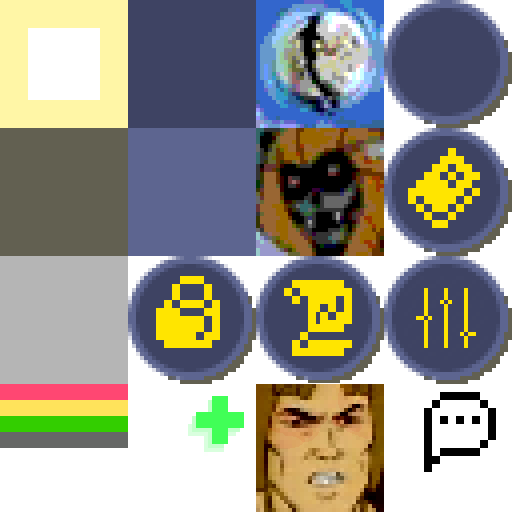
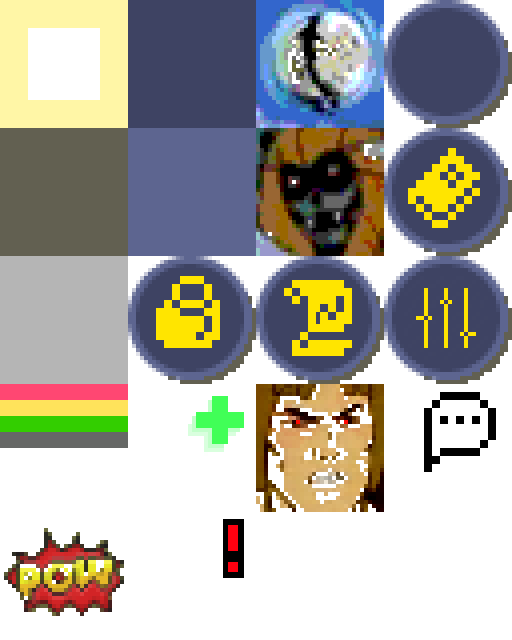
show actor hostility

diff --git a/src/main/kotlin/actors/NPC.kt b/src/main/kotlin/actors/NPC.kt
@@ -3,8 +3,12 @@ package actors
 import actors.actions.Action
 import actors.actions.Move
 import actors.actions.Wait
+import actors.animations.Hop
 import kotlinx.serialization.Serializable
 import kotlinx.serialization.Transient
+import render.sparks.Speak
+import render.tilesets.Glyph
+import ui.panels.Console
 import util.*
 
 @Serializable
@@ -17,8 +21,14 @@ sealed class NPC : Actor() {
 
     var awareness = Awareness.HIBERNATED
     var lastPlayerSeenTime = 0.0
+    var hostile = false
 
     open fun pickAction(): Action = Wait(1f)
+
+    open fun converseLines(): List<String> = listOf()
+
+    open fun isHostile(): Boolean = hostile
+    open fun becomeHostileMsg(): List<String> = listOf("%DN bellows with rage!", "%DN turns angrily toward you!")
 
     final override fun canAct() = juice > 0f
     final override fun isActing() = awareness != Awareness.HIBERNATED
@@ -60,6 +70,29 @@ sealed class NPC : Actor() {
             } else if (awareness == Awareness.AWARE && App.time - lastPlayerSeenTime > forgetPlayerTime) {
                 forgetPlayer()
             }
+        }
+    }
+
+    override fun onConverse(actor: Actor): Boolean {
+        val converseLines = converseLines()
+        if (converseLines.isNotEmpty()) {
+            Console.announce(level, xy.x, xy.y, Console.Reach.AUDIBLE, this.dnamec() + " says, \"" + converseLines.random() + "\"")
+            level?.addSpark(Speak().at(xy.x, xy.y))
+            return true
+        }
+        return false
+    }
+
+    override fun statusGlyph(): Glyph? {
+        if (isHostile()) return Glyph.HOSTILE_ICON
+        return null
+    }
+
+    override fun receiveAttack(attacker: Actor) {
+        if (attacker is Player && !hostile) {
+            hostile = true
+            val m = becomeHostileMsg().random()
+            Console.sayAct("", m, this, attacker, null, Console.Reach.AUDIBLE)
         }
     }
 }

diff --git a/src/main/kotlin/world/Chunk.kt b/src/main/kotlin/world/Chunk.kt
@@ -14,6 +14,7 @@ import util.*
 import world.cartos.LevelCarto
 import world.cartos.WorldCarto
 import world.terrains.Terrain
+import java.lang.Float.max
 import java.lang.Float.min
 import kotlin.random.Random
 
@@ -350,9 +351,9 @@ class Chunk(
         lightCache[x][y].b = ambient.b
         lights[x][y].forEach { (light, color) ->
             val flicker = light.flicker()
-            lightCache[x][y].r = min(1f, (lightCache[x][y].r + color.r) * flicker)
-            lightCache[x][y].g = min(1f, (lightCache[x][y].g + color.g) * flicker)
-            lightCache[x][y].b = min(1f, (lightCache[x][y].b + color.b) * flicker)
+            lightCache[x][y].r = min(1f, (lightCache[x][y].r + max(0f, (color.r * flicker))))
+            lightCache[x][y].g = min(1f, (lightCache[x][y].g + max(0f, (color.g * flicker))))
+            lightCache[x][y].b = min(1f, (lightCache[x][y].b + max(0f, (color.b * flicker))))
         }
         lightCacheDirty[x][y] = false
     }

diff --git a/src/main/kotlin/world/cartos/WorldCarto.kt b/src/main/kotlin/world/cartos/WorldCarto.kt
@@ -1,5 +1,6 @@
 package world.cartos
 
+import actors.Herder
 import actors.Ox
 import kotlinx.serialization.encodeToString
 import kotlinx.serialization.json.Json
@@ -48,8 +49,12 @@ class WorldCarto(
         for (x in 0 until width) {
             for (y in 0 until height) {
                 if (isWalkableAt(x + this.x0, y + this.y0)) {
-                    if (Dice.chance(0.005f)) {
-                        Ox().moveTo(level, x + this.x0, y + this.y0)
+                    if (Dice.chance(0.006f)) {
+                        if (Dice.chance(0.85f)) {
+                            Ox().moveTo(level, x + this.x0, y + this.y0)
+                        } else {
+                            Herder().moveTo(level, x + this.x0, y + this.y0)
+                        }
                     }
                     val n = Perlin.noise(x * 0.04, y * 0.04, 0.01) +
                             Perlin.noise(x * 0.7, y * 0.4, 1.5) * 0.5

diff --git a/src/main/kotlin/ui/modals/InventoryModal.kt b/src/main/kotlin/ui/modals/InventoryModal.kt
@@ -1,7 +1,7 @@
 package ui.modals
 
 import actors.actions.Drop
-import actors.actions.UseThing
+import actors.actions.Use
 import com.badlogic.gdx.Input
 import render.Screen
 import things.Thing
@@ -101,7 +101,7 @@ class InventoryModal(
             thing.uses().forEach {
                 if (it.canDo(App.player)) {
                     addOption(it.command) {
-                        App.player.queue(UseThing(thing, it.duration, it.toDo))
+                        App.player.queue(Use(thing, it.duration, it.toDo))
                     }
                 }
             }
@@ -113,6 +113,8 @@ class InventoryModal(
     override fun keyDown(keycode: Int) {
         when (keycode) {
             Input.Keys.TAB -> dismiss()
+            Input.Keys.NUMPAD_4 -> dismiss()
+            Input.Keys.NUMPAD_6 -> doSelect()
             else -> super.keyDown(keycode)
         }
     }

diff --git a/src/main/kotlin/actors/Herder.kt b/src/main/kotlin/actors/Herder.kt
@@ -1,0 +1,28 @@
+package actors
+
+import actors.actions.Action
+import kotlinx.serialization.Serializable
+import render.tilesets.Glyph
+import util.Dice
+
+@Serializable
+class Herder : NPC() {
+
+    override fun glyph() = Glyph.HERDER
+    override fun name() = "herdsman"
+    override fun description() = "A peasant farm worker.  He looks oppressed, possibly by wizards."
+    override fun converseLines() = listOf(
+        "Shoveling ox poo all day for a wizard.  It's a living.",
+        "The love of an ox, is not like that of a square.  You know what I mean?",
+        "You sure are a big guy!",
+        "Shouldn't you be doing your job for the wizard?"
+    )
+
+    override fun pickAction(): Action {
+        if (awareness == Awareness.AWARE && Dice.chance(0.5f)) {
+            wander()?.also { return it }
+        }
+        return super.pickAction()
+    }
+
+}

diff --git a/src/main/kotlin/ui/panels/ActorPanel.kt b/src/main/kotlin/ui/panels/ActorPanel.kt
@@ -50,6 +50,10 @@ object ActorPanel : ShadedPanel() {
             val y0 = y + padding + spacing * n + 1
             actor.uiBatch().addPixelQuad(x0, y0, x0 + 32, y0 + 32,
                 actor.uiBatch().getTextureIndex(actor.glyph(), actor.level(), actor.xy().x, actor.xy().y))
+            actor.statusGlyph()?.also { statusGlyph ->
+                Screen.uiBatch.addPixelQuad(x0, y0 - 12, x0 + 32, y0 + 20,
+                    Screen.uiBatch.getTextureIndex(statusGlyph))
+            }
             if (actor == LookPanel.entity) {
                 Screen.uiBatch.addPixelQuad(x0 + 36, y0 + 16, x0 + width - padding * 2 - 34, y0 + 36,
                     Screen.uiBatch.getTextureIndex(Glyph.CURSOR))

diff --git a/src/main/kotlin/render/tilesets/UITileSet.kt b/src/main/kotlin/render/tilesets/UITileSet.kt
@@ -5,7 +5,7 @@ import com.badlogic.gdx.graphics.Texture
 import render.tileholders.SimpleTile
 
 fun UITileSet() =
-    TileSet("tiles_ui.png", 4, 4,
+    TileSet("tiles_ui.png", 4, 5,
             Texture.TextureFilter.Nearest).apply {
         setTile(Glyph.CURSOR, SimpleTile(this, 0, 0))
         setTile(Glyph.BOX_BG, SimpleTile(this, 1, 0))
@@ -22,4 +22,6 @@ fun UITileSet() =
         setTile(Glyph.HEALTH_ICON, SimpleTile(this, 1, 3))
         setTile(Glyph.ANGRY_THUNDARR, SimpleTile(this, 2, 3))
         setTile(Glyph.SPEECH_BUBBLE, SimpleTile(this, 3, 3))
+        setTile(Glyph.POW_ICON, SimpleTile(this, 0, 4))
+        setTile(Glyph.HOSTILE_ICON, SimpleTile(this, 1, 4))
     }

diff --git a/src/main/kotlin/render/Screen.kt b/src/main/kotlin/render/Screen.kt
@@ -214,6 +214,13 @@ object Screen : KtxScreen {
             actorBatch.getTextureIndex(actor.glyph(), App.level, tx, ty), 1f, light,
             offsetX = actor.animOffsetX(), offsetY = actor.animOffsetY()
         )
+        actor.statusGlyph()?.also { statusGlyph ->
+            uiWorldBatch.addTileQuad(
+                tx, ty,
+                uiBatch.getTextureIndex(statusGlyph), 1f, fullLight,
+                offsetX = actor.animOffsetX(), offsetY = -0.4f + actor.animOffsetY()
+            )
+        }
     }
 
     private val renderSpark: (Int, Int, Glyph, LightColor, Float, Float, Float, Float)->Unit = { tx, ty, glyph, light, offsetX, offsetY, scale, alpha ->

diff --git a/src/main/kotlin/actors/Actor.kt b/src/main/kotlin/actors/Actor.kt
@@ -8,6 +8,7 @@ import kotlinx.serialization.Serializable
 import kotlinx.serialization.Transient
 import render.Screen
 import render.sparks.HealthUp
+import render.tilesets.Glyph
 import things.*
 import util.*
 import world.Entity
@@ -70,6 +71,12 @@ sealed class Actor : Entity, ThingHolder, LightSource, Temporal {
     }
 
     open fun onMove() { }
+
+    open fun onConverse(actor: Actor): Boolean = false
+
+    open fun statusGlyph(): Glyph? = null
+
+    open fun receiveAttack(attacker: Actor) { }
 
     // What will I do right now?
     fun nextAction(): Action? = if (queuedActions.isNotEmpty()) {

diff --git a/src/main/kotlin/ui/modals/SelectionModal.kt b/src/main/kotlin/ui/modals/SelectionModal.kt
@@ -57,7 +57,7 @@ abstract class SelectionModal(
         when (keycode) {
             Input.Keys.NUMPAD_2, Input.Keys.DOWN, Input.Keys.X -> { selectNext() }
             Input.Keys.NUMPAD_8, Input.Keys.UP, Input.Keys.W -> { selectPrevious() }
-            Input.Keys.SPACE, Input.Keys.NUMPAD_5, Input.Keys.ENTER, Input.Keys.NUMPAD_ENTER, Input.Keys.S, Input.Keys.NUMPAD_6 -> {
+            Input.Keys.SPACE, Input.Keys.NUMPAD_5, Input.Keys.ENTER, Input.Keys.NUMPAD_ENTER, Input.Keys.S -> {
                 if (selection >= 0 ) doSelect()
             }
         }

diff --git a/src/main/kotlin/actors/actions/Melee.kt b/src/main/kotlin/actors/actions/Melee.kt
@@ -2,9 +2,9 @@ package actors.actions
 
 import actors.Actor
 import actors.animations.Whack
+import render.sparks.Pow
 import ui.panels.Console
 import util.XY
-import util.log
 import world.Level
 
 class Melee(
@@ -14,7 +14,9 @@ class Melee(
 
     override fun execute(actor: Actor, level: Level) {
         actor.animation = Whack(dir)
-        Console.say("Whack.")
+        level.addSpark(Pow().at(actor.xy.x + dir.x, actor.xy.y + dir.y))
+        Console.say("Whack!")
+        target.receiveAttack(actor)
     }
 
 }

diff --git a/src/main/kotlin/render/sparks/Pow.kt b/src/main/kotlin/render/sparks/Pow.kt
@@ -1,0 +1,26 @@
+package render.sparks
+
+import render.tilesets.Glyph
+
+class Pow : Spark() {
+
+    init {
+        scale = 1.0f
+        alpha = 0.7f
+
+    }
+
+    private val shrinkSpeed = -0.9f
+    private val fadeSpeed = 1.2f
+
+    override fun isLit() = false
+    override fun duration() = 1f
+    override fun glyph() = Glyph.POW_ICON
+
+    override fun onRender(delta: Float) {
+        super.onRender(delta)
+        scale -= shrinkSpeed * delta
+        alpha -= fadeSpeed * delta
+    }
+
+}
